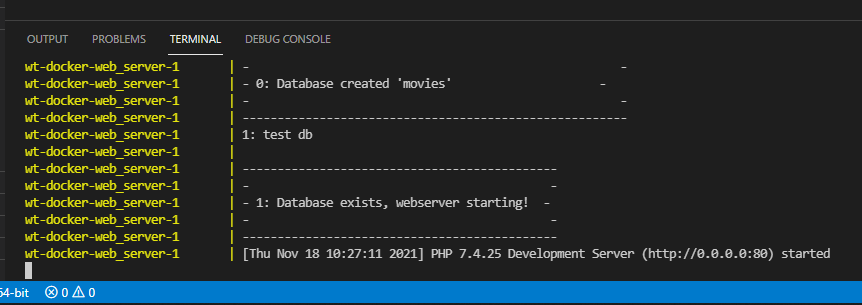
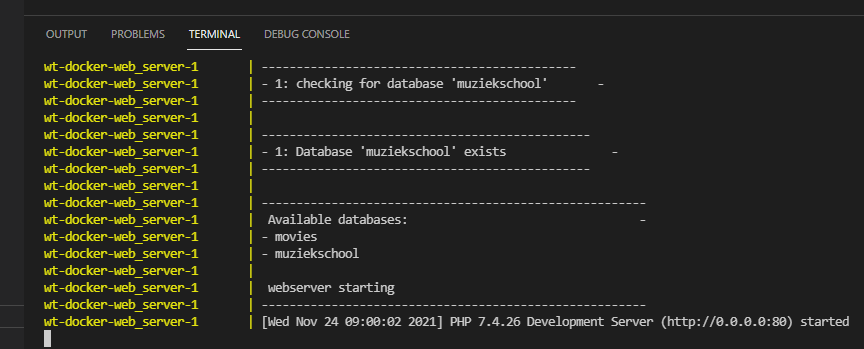
eindmelding is aangepast (multiple databases)

diff --git a/readme.md b/readme.md
@@ -59,8 +59,18 @@ worden beide servers opgestart en de *Fletnix* database wordt
 automatisch aangemaakt en gevuld. Tijdens dit proces zie je een
 behoorlijk aantal meldingen voorbij komen.
 
-Uiteindelijk moet de volgende melding in beeld verschijnen **Database
-exists, webserver starting!**. Zoiets als
+Uiteindelijk moet de volgende melding in beeld verschijnen
+
+    -------------------------------------------------------
+     Available databases:                                 -
+    - movies
+    - muziekschool
+
+     webserver starting
+    -------------------------------------------------------
+    [Wed Nov 24 09:00:02 2021] PHP 7.4.26 Development Server (http://0.0.0.0:80) started
+
+Zoiets als:
 
 ![Servers aangemaakt](readme-images/vscode-servers-created.png)
 
@@ -160,8 +170,6 @@ Herstart je computer.
 
 ![Docker Desktop - Install WSL 2 kernel
 update](readme-images/Waarschuwing_WSL_2.png)
-
-*Fig. 2: Docker Desktop - Install WSL 2 kernel update.*
 
 #### Detailinstructies over virtualisatie
 
